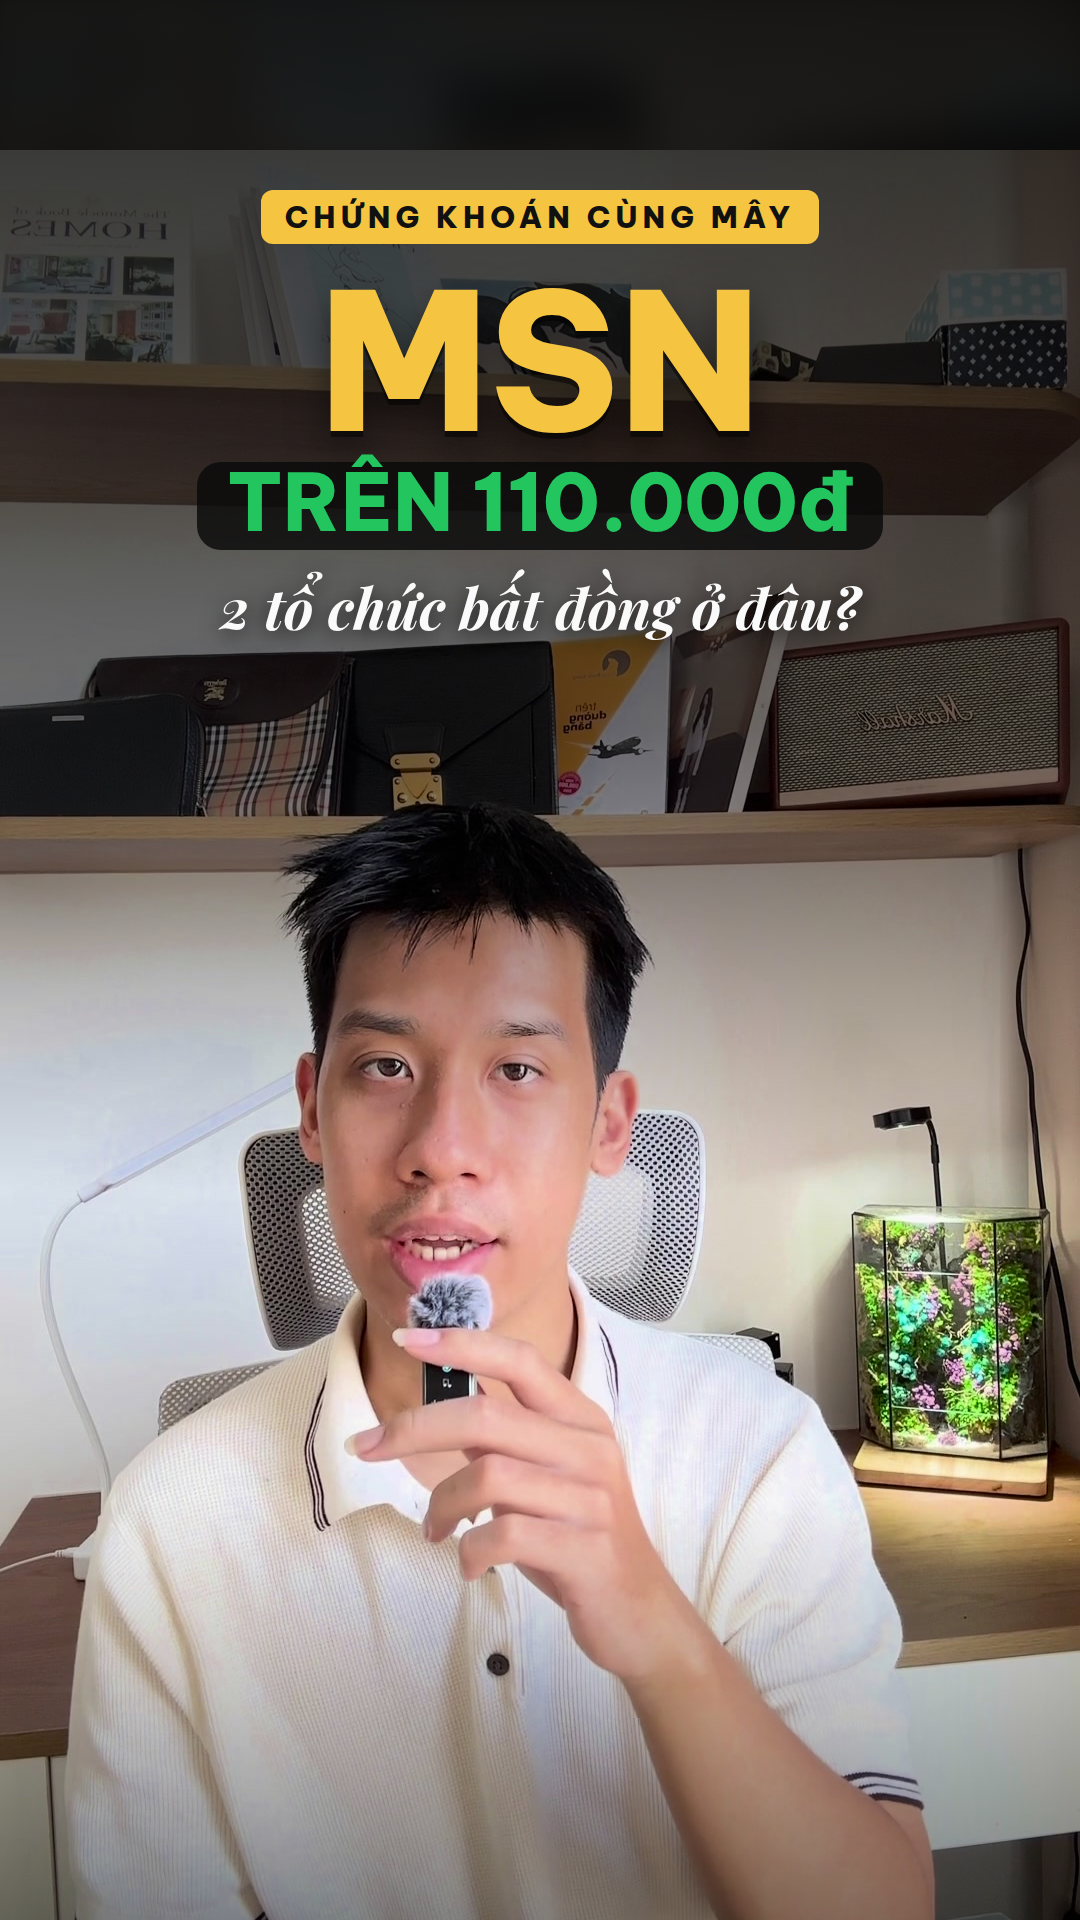
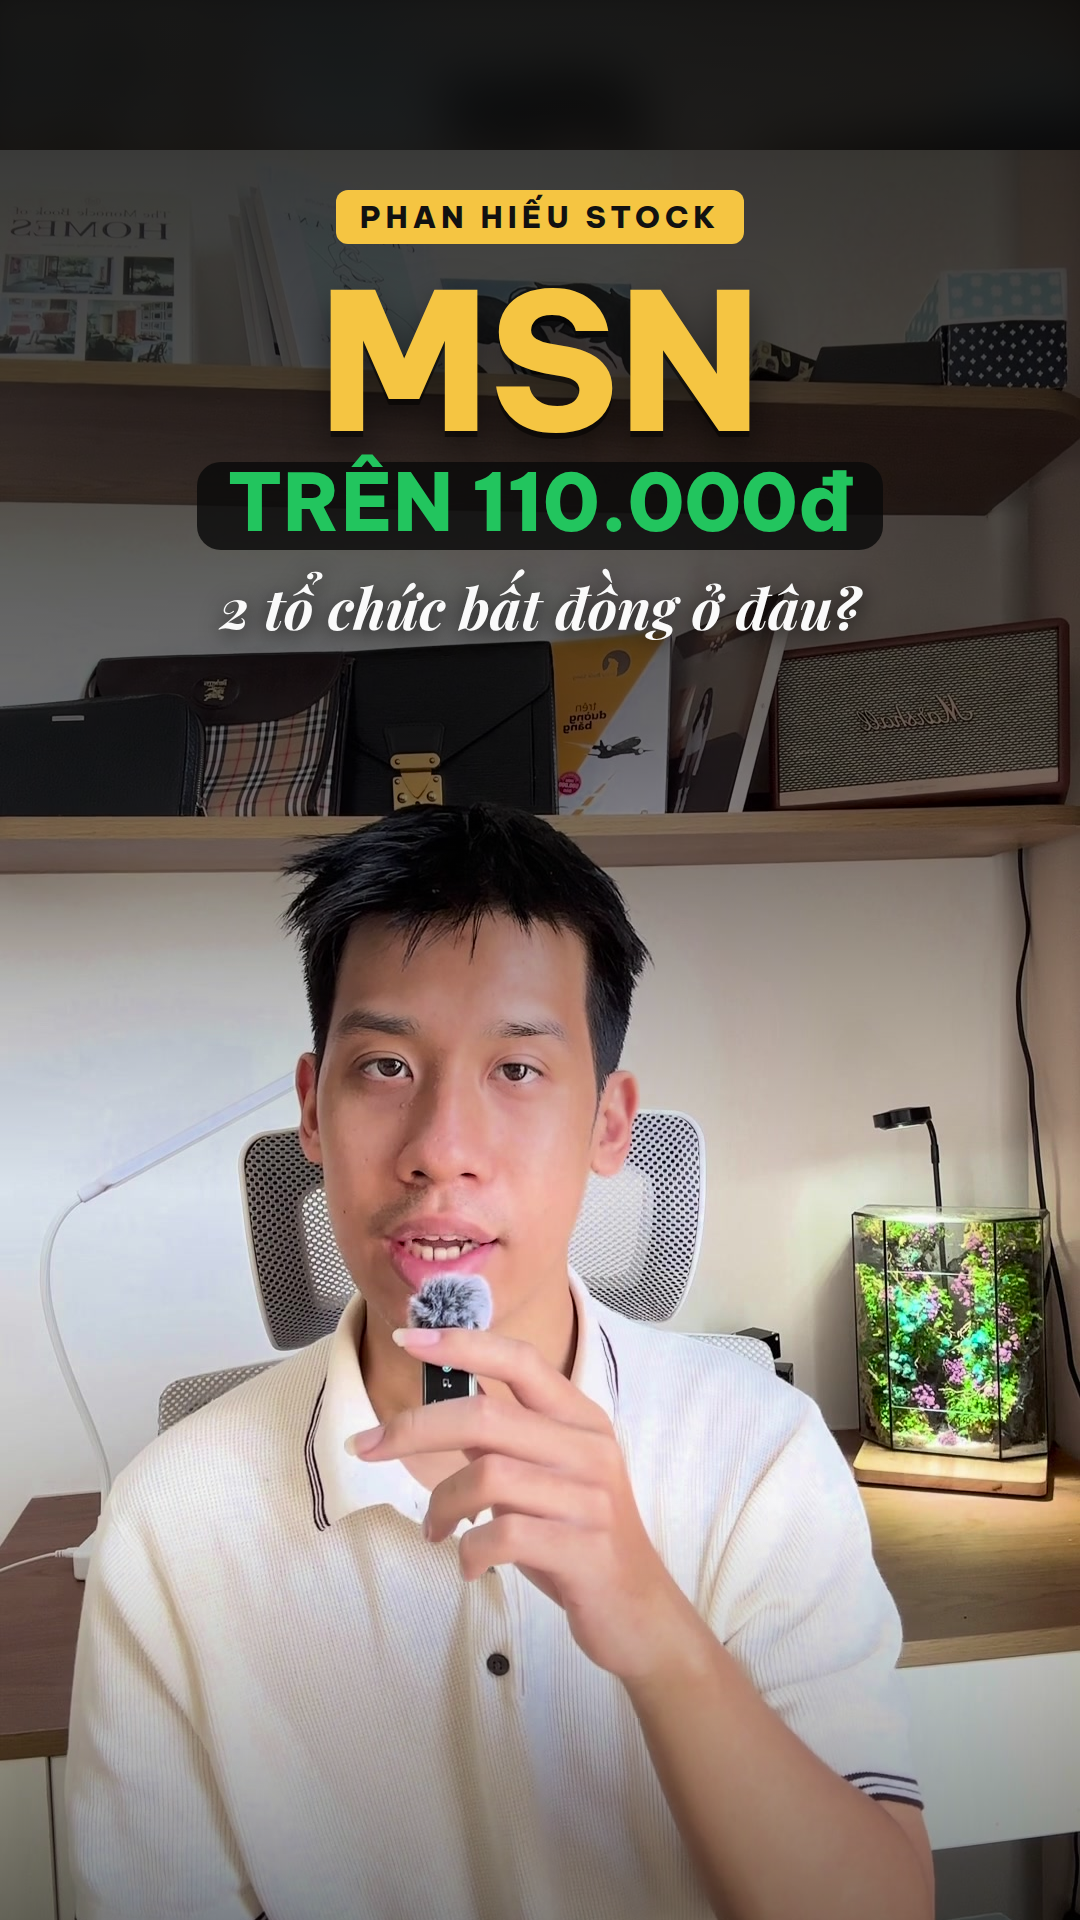
Covers: đổi nhãn kênh thành PHAN HIẾU STOCK
Claude-Session: https://claude.ai/code/session_014GxSeC1NwqDQnvs7PVNM85

Changed region(s): [[0.2444, 0.0938, 0.7639, 0.125]]

diff --git a/videos/covers/cover_msn_facebook_1080x1350.html b/videos/covers/cover_msn_facebook_1080x1350.html
@@ -9,4 +9,4 @@
 .l2{display:inline-block;font-size:72px;color:#22C55E;background:rgba(10,10,10,.82);padding:0 30px 8px;border-radius:24px;margin-top:6px}
 .l3{margin-top:26px;font:italic 700 54px 'Playfair Display';color:#FAFAFA;text-shadow:0 4px 22px rgba(0,0,0,.8);line-height:1.1}
 </style></head><body><div class="bg"></div><div class="ph"></div><div class="sh"></div>
-<div class="t"><div class="tag">CHỨNG KHOÁN CÙNG MÂY</div><div class="l1">MSN</div><div class="l2">TRÊN 110.000đ</div><div class="l3">2 tổ chức bất đồng ở đâu?</div></div></body></html>
+<div class="t"><div class="tag">PHAN HIẾU STOCK</div><div class="l1">MSN</div><div class="l2">TRÊN 110.000đ</div><div class="l3">2 tổ chức bất đồng ở đâu?</div></div></body></html>

diff --git a/videos/covers/cover_msn_tiktok_1080x1920.html b/videos/covers/cover_msn_tiktok_1080x1920.html
@@ -9,4 +9,4 @@
 .l2{display:inline-block;font-size:80px;color:#22C55E;background:rgba(10,10,10,.82);padding:0 30px 8px;border-radius:24px;margin-top:6px}
 .l3{margin-top:26px;font:italic 700 56px 'Playfair Display';color:#FAFAFA;text-shadow:0 4px 22px rgba(0,0,0,.8);line-height:1.1}
 </style></head><body><div class="bg"></div><div class="ph"></div><div class="sh"></div>
-<div class="t"><div class="tag">CHỨNG KHOÁN CÙNG MÂY</div><div class="l1">MSN</div><div class="l2">TRÊN 110.000đ</div><div class="l3">2 tổ chức bất đồng ở đâu?</div></div></body></html>
+<div class="t"><div class="tag">PHAN HIẾU STOCK</div><div class="l1">MSN</div><div class="l2">TRÊN 110.000đ</div><div class="l3">2 tổ chức bất đồng ở đâu?</div></div></body></html>

diff --git a/videos/covers/cover_stb_facebook_1080x1350.html b/videos/covers/cover_stb_facebook_1080x1350.html
@@ -9,4 +9,4 @@
 .l2{display:inline-block;font-size:72px;color:#FF5A5A;background:rgba(10,10,10,.82);padding:0 30px 8px;border-radius:24px;margin-top:6px}
 .l3{margin-top:26px;font:italic 700 54px 'Playfair Display';color:#FAFAFA;text-shadow:0 4px 22px rgba(0,0,0,.8);line-height:1.1}
 </style></head><body><div class="bg"></div><div class="ph"></div><div class="sh"></div>
-<div class="t"><div class="tag">CHỨNG KHOÁN CÙNG MÂY</div><div class="l1">STB</div><div class="l2">2 PHIÊN ĐỎ</div><div class="l3">Điều đáng chú ý nằm ở đâu?</div></div></body></html>
+<div class="t"><div class="tag">PHAN HIẾU STOCK</div><div class="l1">STB</div><div class="l2">2 PHIÊN ĐỎ</div><div class="l3">Điều đáng chú ý nằm ở đâu?</div></div></body></html>

diff --git a/videos/covers/cover_stb_tiktok_1080x1920.html b/videos/covers/cover_stb_tiktok_1080x1920.html
@@ -9,4 +9,4 @@
 .l2{display:inline-block;font-size:80px;color:#FF5A5A;background:rgba(10,10,10,.82);padding:0 30px 8px;border-radius:24px;margin-top:6px}
 .l3{margin-top:26px;font:italic 700 56px 'Playfair Display';color:#FAFAFA;text-shadow:0 4px 22px rgba(0,0,0,.8);line-height:1.1}
 </style></head><body><div class="bg"></div><div class="ph"></div><div class="sh"></div>
-<div class="t"><div class="tag">CHỨNG KHOÁN CÙNG MÂY</div><div class="l1">STB</div><div class="l2">2 PHIÊN ĐỎ</div><div class="l3">Điều đáng chú ý nằm ở đâu?</div></div></body></html>
+<div class="t"><div class="tag">PHAN HIẾU STOCK</div><div class="l1">STB</div><div class="l2">2 PHIÊN ĐỎ</div><div class="l3">Điều đáng chú ý nằm ở đâu?</div></div></body></html>

diff --git a/videos/covers/make_covers.py b/videos/covers/make_covers.py
@@ -32,6 +32,6 @@ for key, c in COVERS.items():
 .l2{{display:inline-block;font-size:{s2}px;color:{c['c2']};background:rgba(10,10,10,.82);padding:0 30px 8px;border-radius:24px;margin-top:6px}}
 .l3{{margin-top:26px;font:italic 700 {s3}px 'Playfair Display';color:#FAFAFA;text-shadow:0 4px 22px rgba(0,0,0,.8);line-height:1.1}}
 </style></head><body><div class="bg"></div><div class="ph"></div><div class="sh"></div>
-<div class="t"><div class="tag">CHỨNG KHOÁN CÙNG MÂY</div><div class="l1">{c['l1']}</div><div class="l2">{c['l2']}</div><div class="l3">{c['l3']}</div></div></body></html>"""
+<div class="t"><div class="tag">PHAN HIẾU STOCK</div><div class="l1">{c['l1']}</div><div class="l2">{c['l2']}</div><div class="l3">{c['l3']}</div></div></body></html>"""
         (R / f"cover_{key}_{name}.html").write_text(html)
 print("ok")
